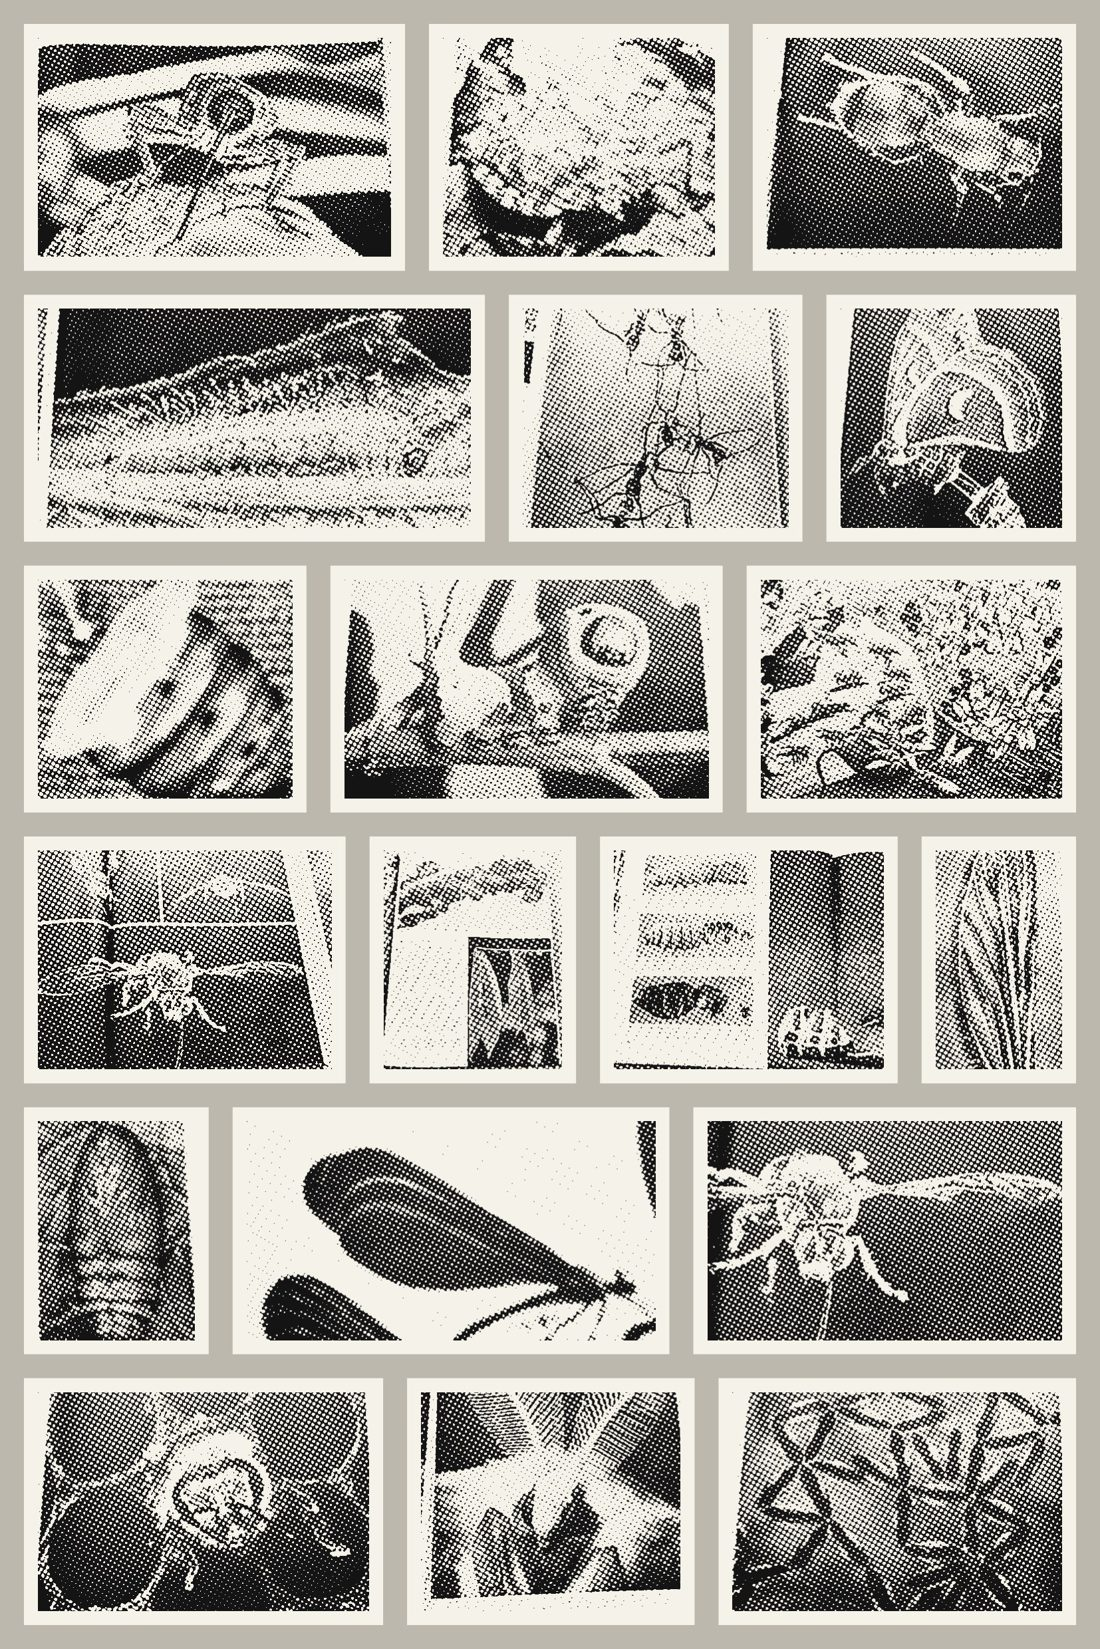
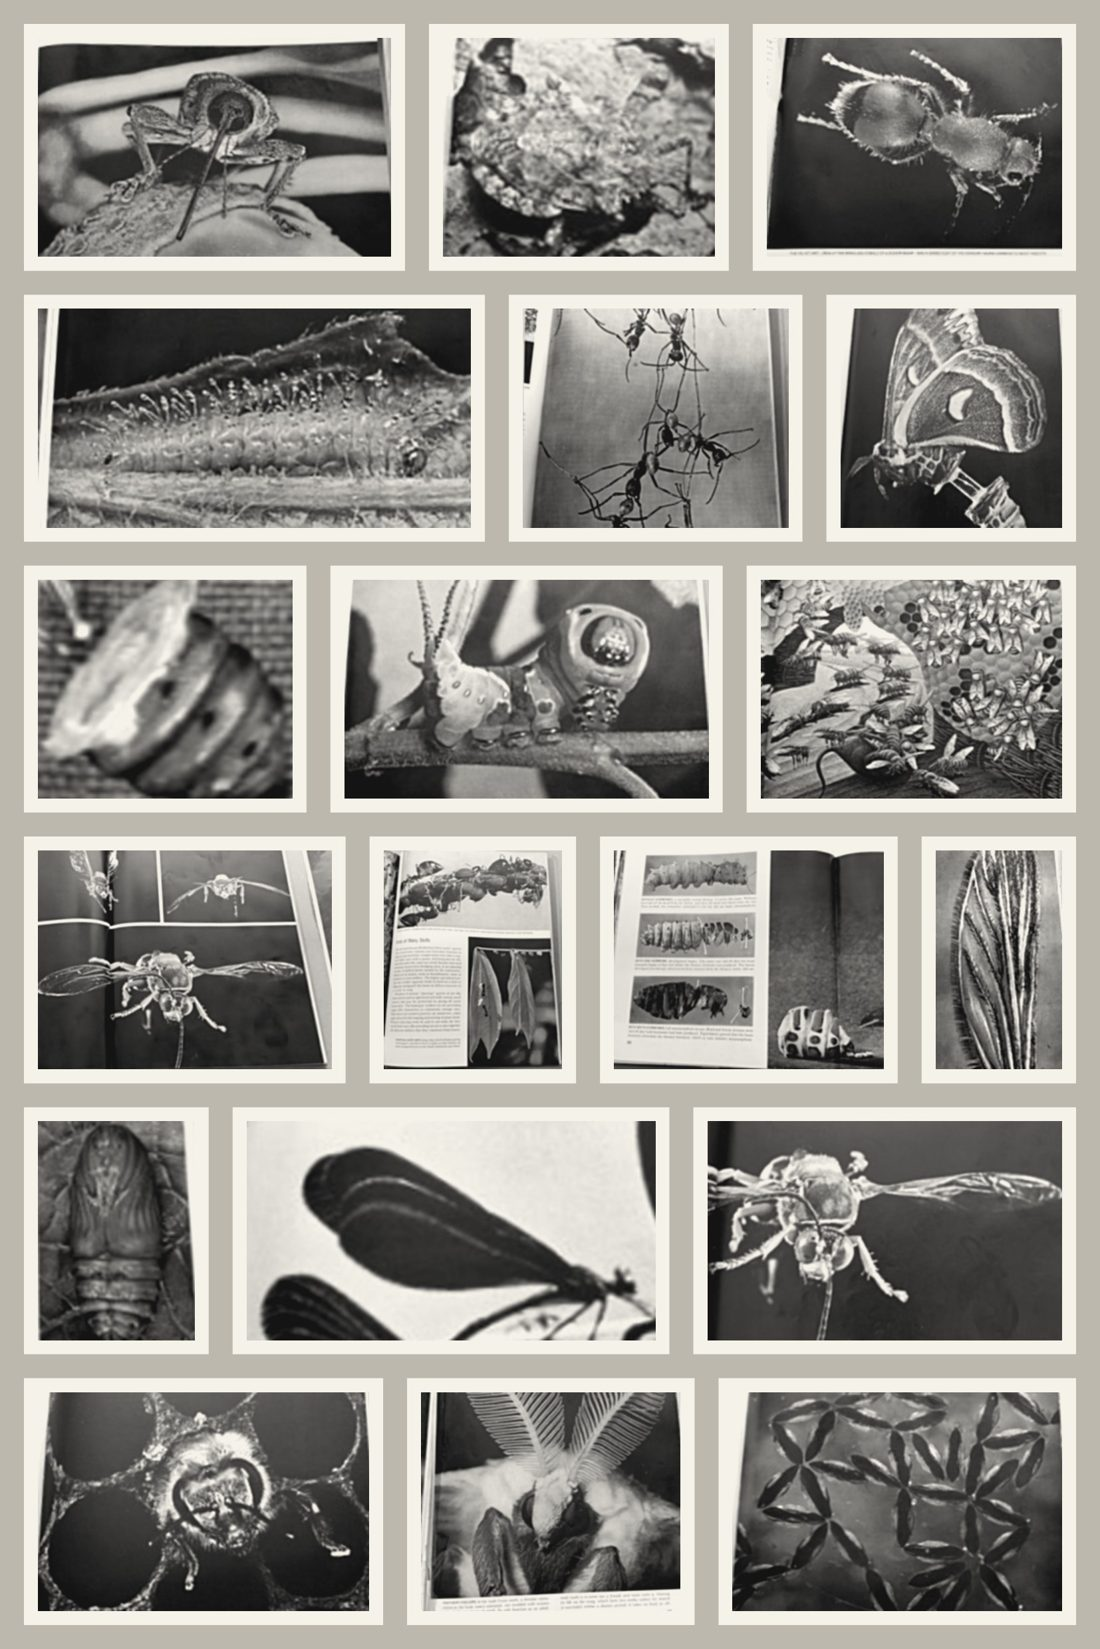
feat: smooth palette blend, less grain
Claude-Session: https://claude.ai/code/session_01N92mCHG9PcXCEtiR9PC9n8

diff --git a/index.html b/index.html
@@ -88,10 +88,10 @@ main{padding:24px;display:flex;justify-content:center;align-items:flex-start;ove
       </select></div>
     <div><label class="k">Dots</label>
       <select id="dots">
-        <option value="5">fine</option>
-        <option value="7" selected>comic</option>
-        <option value="11">big</option>
-        <option value="0">none</option>
+        <option value="0" selected>smooth</option>
+        <option value="4">fine dots</option>
+        <option value="7">comic dots</option>
+        <option value="11">big dots</option>
       </select></div>
   </div>
 
@@ -416,15 +416,18 @@ function rampFor(pal){
 // pixel gets, so a two-colour palette still shows shading the way old comics did.
 function toPalette(src,ramp,cell){
   const W=src.width,H=src.height,img=cx(src).getImageData(0,0,W,H),d=img.data;
-  let L=lumOf(d);
-  const Lb=boxBlur(L,W,H,Math.max(2,Math.round(Math.min(W,H)/120)));
-  for(let i=0;i<L.length;i++)L[i]=L[i]+0.9*(L[i]-Lb[i]); // unsharp, so type and outlines hold up
+  // Smooth out JPEG noise from the tiny source first, then sharpen only gently,
+  // so edges hold up without the speckle a hard sharpen pulls out of the noise.
+  let L=boxBlur(lumOf(d),W,H,Math.max(1,Math.round(Math.min(W,H)/300)));
+  const Lb=boxBlur(L,W,H,Math.max(3,Math.round(Math.min(W,H)/60)));
+  for(let i=0;i<L.length;i++)L[i]=L[i]+0.35*(L[i]-Lb[i]);
   levels(L,percentile(L,0.015),percentile(L,0.985));
   const C=ramp.map(hex),K=C.length,co=Math.cos(0.5236),si=Math.sin(0.5236);
   for(let y=0;y<H;y++)for(let x=0;x<W;x++){
     const o=y*W+x,v=clamp(L[o]),s=v*(K-1),i=Math.min(K-2,Math.floor(s)),f=s-i;
-    let t=0.5;
-    if(cell){const u=(x*co+y*si)/cell,w=(-x*si+y*co)/cell,du=u-Math.floor(u)-0.5,dw=w-Math.floor(w)-0.5;t=clamp((du*du+dw*dw)*2);}
+    if(!cell){ // smooth: blend between the two nearest palette colours, no dots
+      const a=C[i],b=C[i+1];for(let k=0;k<3;k++)d[o*4+k]=a[k]+(b[k]-a[k])*f;d[o*4+3]=255;continue;}
+    const u=(x*co+y*si)/cell,w=(-x*si+y*co)/cell,du=u-Math.floor(u)-0.5,dw=w-Math.floor(w)-0.5,t=clamp((du*du+dw*dw)*2);
     const c=C[f>t?i+1:i];d[o*4]=c[0];d[o*4+1]=c[1];d[o*4+2]=c[2];d[o*4+3]=255;
   }
   const out=cv(W,H);cx(out).putImageData(img,0,0);return out;

diff --git a/README.md b/README.md
@@ -4,7 +4,7 @@ I photographed 45 pages of an old insect book and wanted stickers out of them wi
 
 Open `index.html` in a browser and drop the photos on it. Nothing uploads anywhere.
 
-Each sheet uses one palette: green beige black brown, or black and white. The picture gets mapped onto those colours dark to light, with a halftone screen between them, so two colours can still show shading. Some stamps use three of the four colours so the sheet doesn't look like one filter.
+Each sheet uses one palette: green beige black brown, or black and white. The picture gets mapped onto those colours dark to light as a smooth blend. Halftone dots are an option if you want the old comic look. Some stamps use three of the four colours so the sheet doesn't look like one filter.
 
 A stamp is about 3 cm tall, mostly portrait with some square and landscape ones, and each row is stretched to the sheet width. Every stamp is a picture. Its width follows the picture's shape so the whole thing fits, photos cropped just inside their own edges and drawings framed with a bit of page, sometimes with the caption. No text-only stamps. Gutters are 3 mm, enough for a cutter. Click a stamp to swap its picture.
 
